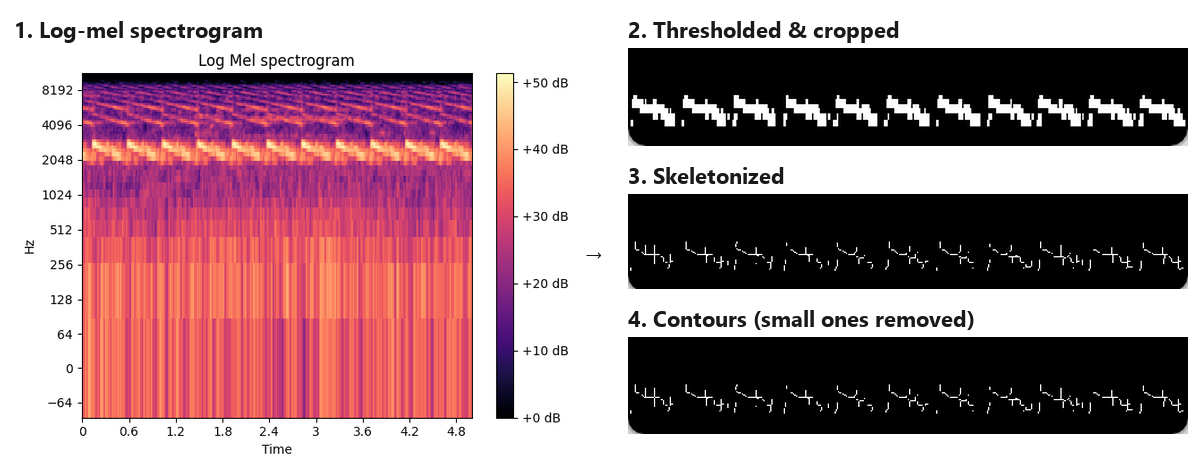
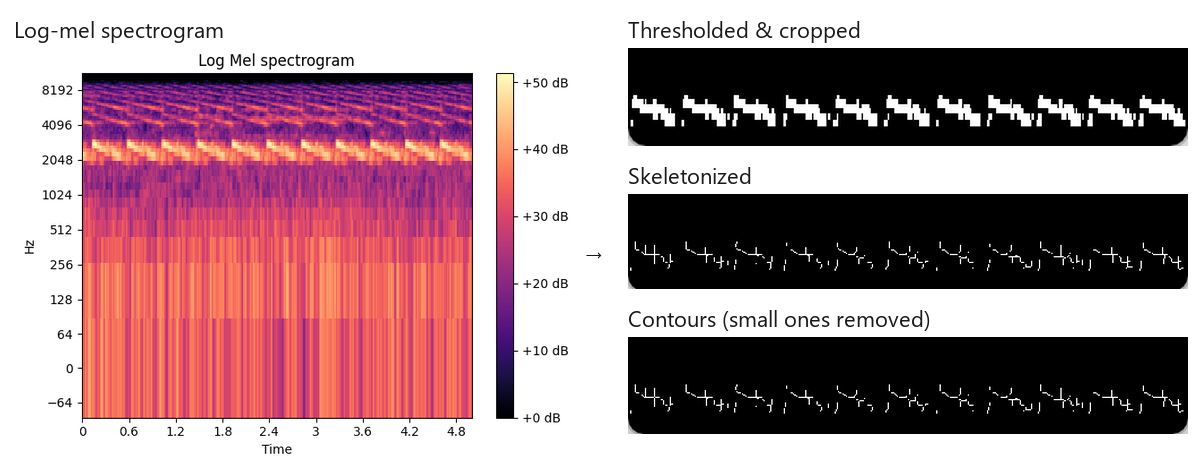
README: plain step headings, shorter captions, siren/horn spectrograms beside detector output, smaller logs

diff --git a/README.md b/README.md
@@ -24,10 +24,10 @@ Ambulance sirens sweep up and down in pitch in a regular, repeating pattern, mos
 Two siren types are handled separately: the slow **wail** (needs about 15 s of audio) and the fast **yelp** (about 5 s).
 
 <p align="center"><img src="media/pipeline_wail.png" width="800" alt="Wail siren detection pipeline"></p>
-<p align="center"><i><b>Wail siren</b> (slow sweep, about 5 s per cycle). (1) The log-mel spectrogram of the recording - the siren shows up as the repeating arcs in the upper band. (2) The spectrogram is thresholded into a binary image and cropped to the band containing the siren. (3) Skeletonization thins the band to a single-pixel curve. (4) Contours are extracted and small ones removed, leaving the rise-and-fall pattern whose peaks and troughs the detector counts.</i></p>
+<p align="center"><i>Wail siren: log-mel spectrogram and the image-processing steps used to detect it.</i></p>
 
 <p align="center"><img src="media/pipeline_yelp.png" width="800" alt="Yelp siren detection pipeline"></p>
-<p align="center"><i><b>Yelp siren</b> (fast sweep, many short cycles in a 5 s clip). The same four steps: (1) log-mel spectrogram, where the yelp appears as a tight sawtooth; (2) thresholded and cropped; (3) skeletonized; (4) contours, whose closely spaced peaks and troughs are counted to confirm the siren.</i></p>
+<p align="center"><i>Yelp siren: the same steps on the faster, sawtooth-shaped siren.</i></p>
 
 ### 2. Traffic signal control (Arduino)
 
@@ -45,30 +45,34 @@ A three-LED traffic light is wired to an Arduino Uno running the StandardFirmata
 
 The system was tested on recordings of both siren types, on sirens mixed with multiple horn sounds in the background (as in heavy traffic), and on horn sounds alone. Detecting a siren takes **under 4 seconds** from the input audio.
 
-**Siren vs. horn.** For a siren, the wail detector finds the repeating peaks and troughs and returns `True`. For a recording of horns alone, the mel spectrogram has no energy above 600 Hz, so the same detector script returns `False`.
-
-<p align="center">
-  <img src="media/wail_detected.png" width="640" alt="Wail detector output on a siren recording: peak and trough coordinates, True">
-  <br><i>Wail detector on a siren recording: the peaks and troughs it found, then <code>True</code>.</i>
-</p>
+**Siren vs. horn.** On a siren recording, the detector finds the repeating peaks and troughs and returns `True`. On horn sound alone, there is no energy above 600 Hz, so it returns `False`.
 
 <table align="center">
   <tr>
-    <td align="center"><img src="media/horn_spectrogram.png" width="380" alt="Mel spectrogram of a horn-only recording"></td>
-    <td align="center" valign="middle"><img src="media/horn_rejected.png" width="400" alt="Detector output on the horn recording: False"></td>
+    <td align="center"><img src="media/siren_spectrogram.png" width="360" alt="Log-mel spectrogram of a wail siren"></td>
+    <td align="center" valign="middle"><img src="media/wail_detected_term.png" width="430" alt="Detector output on the siren: peak and trough coordinates, True"></td>
+  </tr>
+  <tr>
+    <td align="center" colspan="2"><i>Wail siren - detected (<code>True</code>).</i></td>
+  </tr>
+  <tr>
+    <td align="center"><img src="media/horn_spectrogram.png" width="360" alt="Mel spectrogram of a horn-only recording"></td>
+    <td align="center" valign="middle"><img src="media/horn_rejected_term.png" width="430" alt="Detector output on the horn recording: False"></td>
+  </tr>
+  <tr>
+    <td align="center" colspan="2"><i>Horn only - no siren (<code>False</code>).</i></td>
   </tr>
 </table>
-<p align="center"><i>The same detector run on a horn-only recording: everything stays below 600 Hz, so it returns <code>False</code>.</i></p>
 
-**Full system.** The signal cycles normally until a siren is heard, then switches to green and holds it. When only horn sound remains, the cycle resumes from where it was interrupted. The logs below are the system's terminal output, one line per signal update (the report shows the signal state as printed text).
+**Full system.** The signal cycles normally until a siren is heard, then switches to green and holds it. When only horn sound remains, the cycle resumes from where it was interrupted. The logs below show the signal state at each update.
 
-<p align="center"><img src="media/full_siren_to_green.png" width="760" alt="Signal is red, a wail siren is detected, signal switches to green"></p>
-<p align="center"><i>While the signal is red, a wail siren is detected and the signal switches to green.</i></p>
+<p align="center"><img src="media/full_siren_to_green.png" width="560" alt="Signal is red, a wail siren is detected, signal switches to green"></p>
+<p align="center"><i>Siren detected while red - the signal switches to green.</i></p>
 
-<p align="center"><img src="media/full_horn_resume.png" width="760" alt="Siren gone, only horn sound, cycle resumes at red"></p>
-<p align="center"><i>Once only horn sound is heard, the cycle resumes where it was interrupted - back to red.</i></p>
+<p align="center"><img src="media/full_horn_resume.png" width="560" alt="Siren gone, only horn sound, cycle resumes at red"></p>
+<p align="center"><i>Siren gone - the cycle resumes where it left off.</i></p>
 
-Detection currently runs on pre-recorded audio clips. The next steps identified in the report are real-time detection from live microphones, more siren types and multiple signals, and running it on a standalone board such as a Raspberry Pi or Jetson Nano.
+**Future work:** real-time detection from live microphones, more siren types and multiple signals, and running it standalone on a board such as a Raspberry Pi or Jetson Nano.
 
 ---
 
